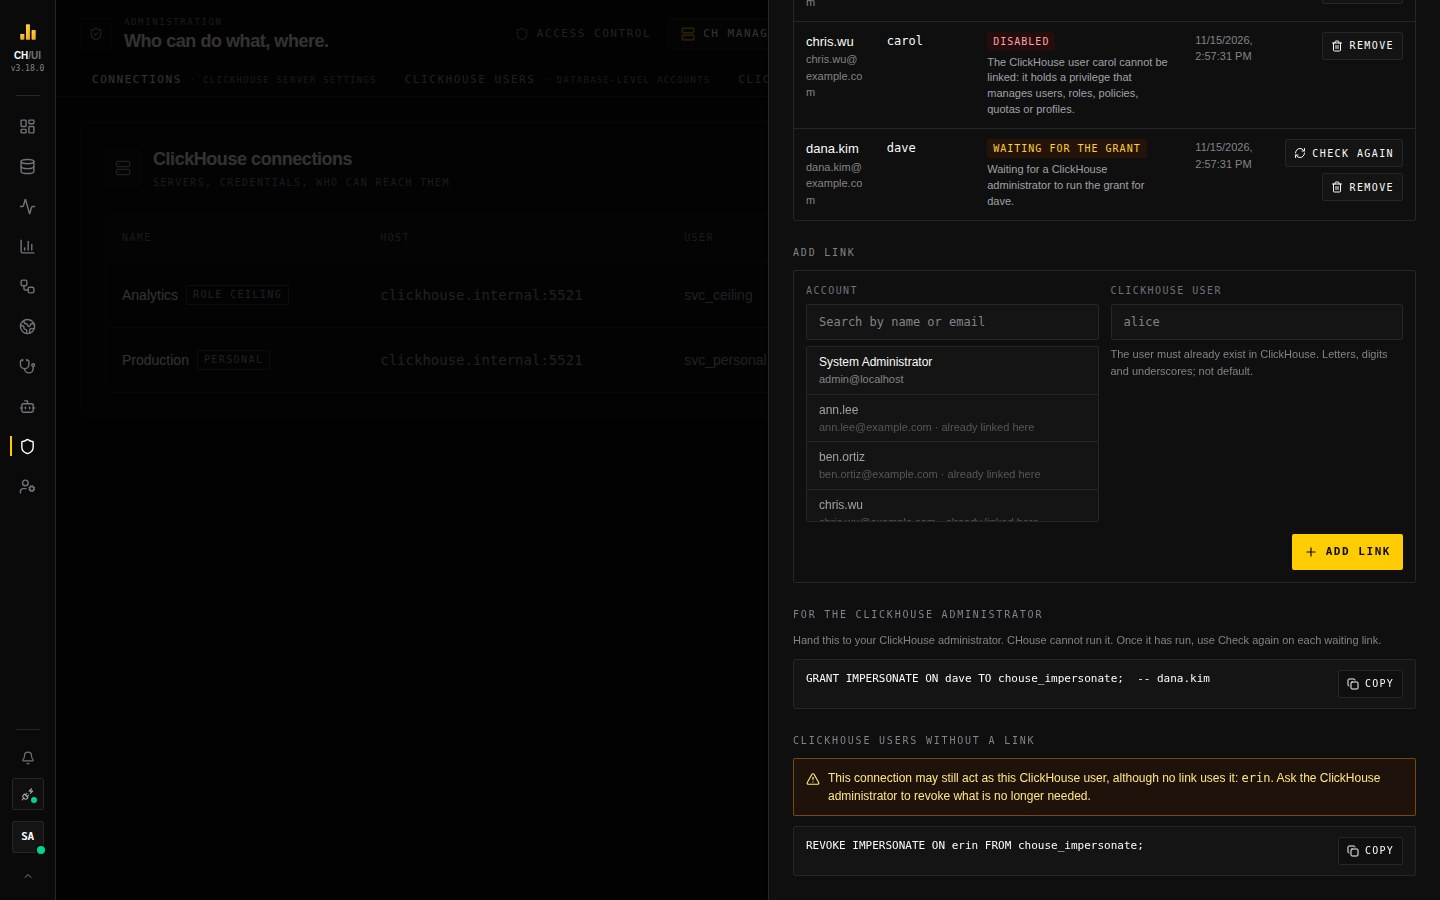
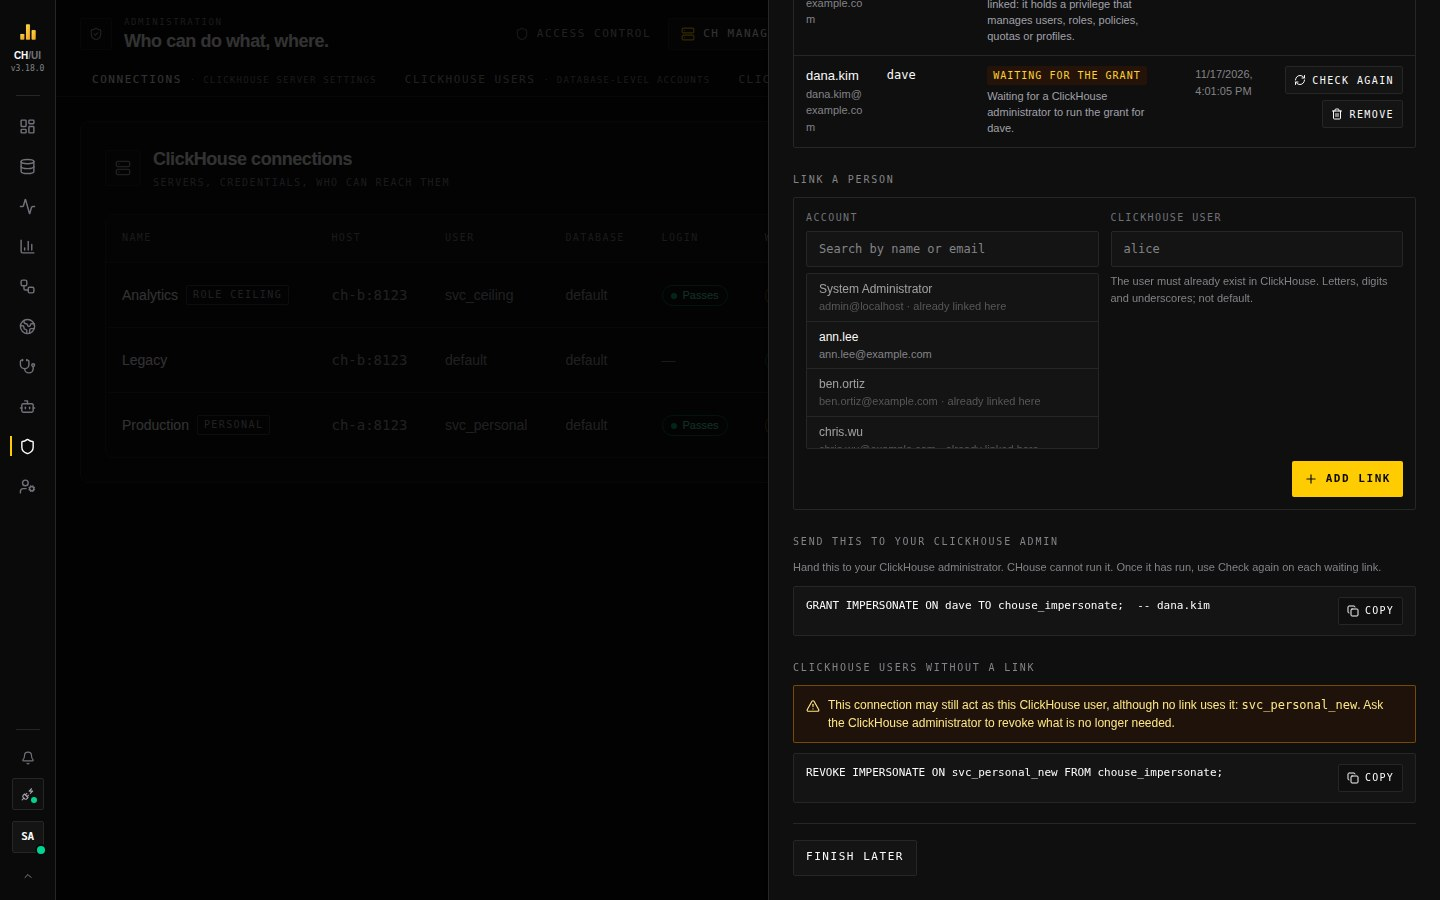
docs(landing): show the connection panel in the 3.18 showcase and docs
The landing page's showcase steps and captions now walk through the
connection panel (Add connection, ClickHouse login tab, Test, Create,
Who can query) instead of the removed ClickHouse login and Linked
ClickHouse users panels. Every capture of those panels is retaken from
the running app, and the Connections list and a new role-ceiling
connection are added to the docs.

diff --git a/docs/portfolio/src/components/WhatsNew.tsx b/docs/portfolio/src/components/WhatsNew.tsx
@@ -32,26 +32,26 @@ const SHOWCASES: Showcase[] = [
     title: "Run each person's statements as their own ClickHouse user",
     pitch: "A connection can now be personal. Its own ClickHouse user holds no grant; each person's statements run as the ClickHouse user linked to their account, so the grants, row policies and quotas you already have decide what they reach. CHouse UI stores no password for those users.",
     steps: [
-      "Admin › Connections › ClickHouse login, choose Personal",
-      "Run the statements shown for your ClickHouse administrator",
-      "Press Check, then Save: nothing is stored unless every check passes",
+      "Admin › Connections › Add connection, ClickHouse login tab, choose Personal",
+      "Hand Show the script for the admin to your ClickHouse administrator",
+      "Press Test, then Create: one empty ClickHouse user is enough",
     ],
     shot: "admin-connection-personal",
-    alt: "The ClickHouse login panel of a personal connection: its kind, user, system role and impersonation role, with a Ready health line",
+    alt: "The ClickHouse login tab of a personal connection: its kind, server, user, default database, system role and impersonation role, with Test and Save",
     docs: { label: "Personal connections", href: "/docs/personal-connections/" },
   },
   {
     icon: Link2,
-    label: "Linked ClickHouse users",
+    label: "Person links",
     title: "Decide which account runs as which ClickHouse user",
     pitch: "A super admin links each account to one ClickHouse user and sees every link's state. A link waits until ClickHouse allows it, is suspended when someone else changes how the account signs in, and is disabled when the user behind the name changes.",
     steps: [
-      "Open Linked ClickHouse users on the connection",
+      "Edit the connection, open its Who can query tab",
       "Pick an account, type its ClickHouse user, Add link",
       "Hand the GRANT shown to your ClickHouse administrator",
     ],
     shot: "admin-connection-links",
-    alt: "Linked ClickHouse users of a connection: four accounts with their ClickHouse users, two active, one disabled, one waiting for the grant",
+    alt: "The Who can query tab of a personal connection: accounts with their ClickHouse users and the state of each link",
     docs: { label: "Link an account to a ClickHouse user", href: "/docs/guide-link-clickhouse-user/" },
   },
   {
@@ -65,7 +65,7 @@ const SHOWCASES: Showcase[] = [
       "After they ran, press Check again on each waiting link",
     ],
     shot: "admin-connection-links-grants",
-    alt: "The lower half of the links panel: the GRANT for a waiting link, and a warning with the REVOKE for a user that no link uses",
+    alt: "Lower on the Who can query tab: the GRANT for a waiting link, and the REVOKE for a user that no link uses",
     docs: { label: "Links and their states", href: "/docs/personal-connections/#links" },
   },
   {
@@ -88,12 +88,12 @@ const SHOWCASES: Showcase[] = [
     title: "Or limit each CHouse role to one ClickHouse role",
     pitch: "For teams without a ClickHouse user per person: map each CHouse role to a ClickHouse role. Every statement is sent with the role of the person it is for, so ClickHouse itself refuses anything outside it, for administrators too. Needs ClickHouse 24.4 or newer.",
     steps: [
-      "Admin › Connections › ClickHouse login, choose Role ceiling",
-      "Map each CHouse role to a ClickHouse role",
-      "Check, then Save",
+      "Admin › Connections › Add connection, ClickHouse login tab, choose Role ceiling",
+      "Press Test, then Create with one empty ClickHouse user",
+      "Map each CHouse role on the Who can query tab",
     ],
     shot: "admin-connection-role-map",
-    alt: "The role map of a role-ceiling connection: the Data analyst role mapped to analyst_ro and Finance to finance_rw",
+    alt: "The Who can query tab of a role-ceiling connection: each CHouse role, its ClickHouse role and how many people hold it",
     docs: { label: "Connection kinds and the role ceiling", href: "/docs/connection-identity/" },
   },
   {
@@ -102,12 +102,12 @@ const SHOWCASES: Showcase[] = [
     title: "A login that drifts stops the connection, not your guarantees",
     pitch: "Before a switch and every five minutes after, CHouse UI checks that the connection's ClickHouse user is still empty, that its roles cannot manage or become other users, and, for a personal connection, that the server still checks grants for everything run as a person. A connection that fails refuses every request and says why.",
     steps: [
-      "Open ClickHouse login on a role-ceiling or personal connection",
+      "Edit a role-ceiling or personal connection, open ClickHouse login",
       "Read the health line and when it was last checked",
-      "Press Check now after a change in ClickHouse",
+      "Press Re-run checks after a change in ClickHouse",
     ],
     shot: "admin-connection-identity",
-    alt: "The ClickHouse login panel of a role-ceiling connection: kind, user, system role, access contact and a Ready health line with Check now",
+    alt: "The ClickHouse login tab of a role-ceiling connection: kind, server, user, system role, access contact and a passing health line with Re-run checks",
     docs: { label: "What CHouse UI checks", href: "/docs/connection-identity/#what-chouse-ui-checks" },
   },
 ];

diff --git a/docs/portfolio/src/content/docs/connections.md b/docs/portfolio/src/content/docs/connections.md
@@ -68,7 +68,9 @@ Next to each collector you see its last run on that connection — how long it t
 
 A connection is a **shared login** unless a super admin chooses another kind, when creating it or later. On a **role ceiling** its ClickHouse user holds no grant and each person is limited to the ClickHouse role mapped to their CHouse role. On a **personal** connection each person's statements run as their own ClickHouse user.
 
-A connection opens in one panel with three tabs: **General** (name, environment, active, default), **ClickHouse login** (kind, host, port, TLS, user, password, default database, roles and access contact) and **Who can query** (the role map, the person links, or the data access policies that apply). Each tab saves on its own, and **Test** on the login tab runs the checks without saving. Admins can create and edit shared-login connections; on the other kinds they see the login tab read-only. The **Who can query** column of the list says, for each connection, whether everyone it is meant for can use it; click it to open that tab. See [Connection kinds and the role ceiling](/docs/connection-identity/) and [Personal connections](/docs/personal-connections/).
+A connection opens in one panel with three tabs: **General** (name, environment, active, default), **ClickHouse login** (kind, host, port, TLS, user, password, default database, roles and access contact) and **Who can query** (the role map, the person links, or the data access policies that apply). Each tab saves on its own, and **Test** on the login tab runs the checks without saving. Admins can create and edit shared-login connections; on the other kinds they see the login tab read-only. The **Who can query** column of the list says, for each connection, whether everyone it is meant for can use it; click it to open that tab.
+
+![Admin › Connections with the Login and Who can query columns](/docs/img/app/admin-connections-list.jpg "Each connection's kind, the health of its login, and who can query it: a role-ceiling connection with 2 of 4 roles mapped, a shared login that is ready, and a personal connection with a link waiting for its grant") See [Connection kinds and the role ceiling](/docs/connection-identity/) and [Personal connections](/docs/personal-connections/).
 
 ## Remediation credential
 

diff --git a/docs/portfolio/src/content/docs/connection-identity.md b/docs/portfolio/src/content/docs/connection-identity.md
@@ -60,6 +60,8 @@ ALTER USER svc_chouse_ceiling DEFAULT ROLE NONE;
 
 2. **New connection:** choose **Role ceiling** as the kind, enter that user, its password and the system role, press **Test**, then **Create**. One ClickHouse user is enough; there is no need to create one with every privilege first.
 
+   ![A new role-ceiling connection on the ClickHouse login tab](/docs/img/app/admin-connection-create.jpg "New connection, Role ceiling chosen: the hint says the user needs no grants of its own, with the script for the administrator, Test and Create")
+
    **Existing shared-login connection:** choose **Role ceiling** on its ClickHouse login tab. The hint names the current user when it has grants of its own and offers two ways: enter a **new empty user** (recommended: the current user keeps working until you save), or have the administrator **empty the current user** (queries fail from that moment until you save). Press **Test**, then **Save**. The kind, the user and the role names are stored together.
 3. **Who can query** opens next. Map each CHouse role that should use the connection to a ClickHouse role, including your own: until its role is mapped, a person's statements are refused. The Connections list shows how many roles are mapped, and a connection nobody can query yet cannot be made the default.
 
